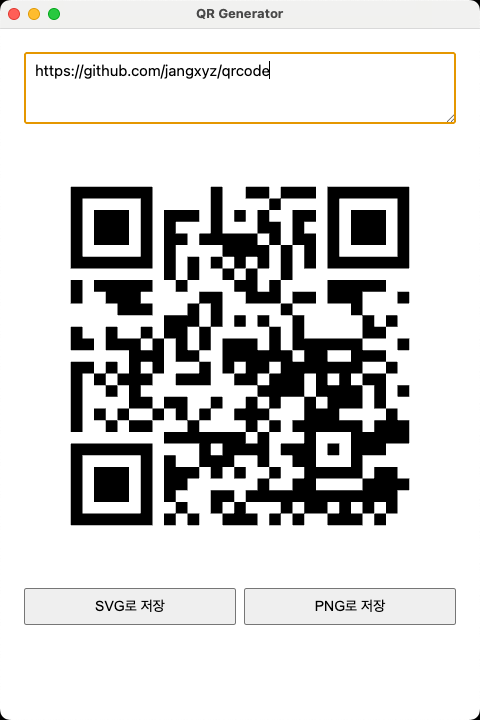
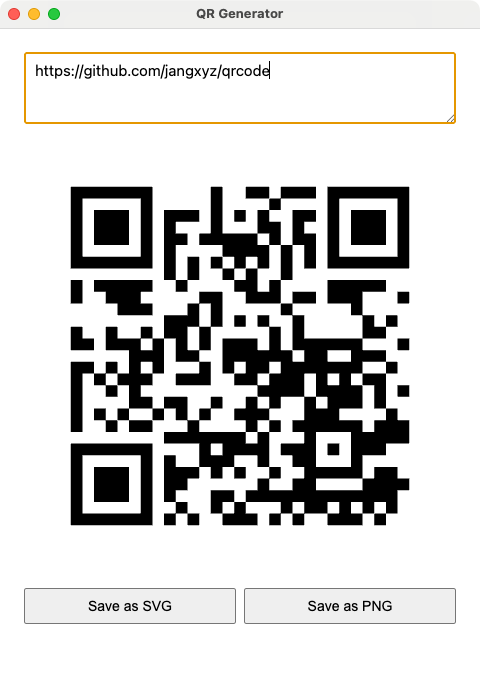
docs: show each README's screenshot in its own language
Replace the Korean screenshot in the English README with an English one, add a Korean screenshot for README.ko.md, and describe how the app picks its language.

Claude-Session: https://claude.ai/code/session_012KkYMyAeUhCHtCL9LEm3MX

diff --git a/README.ko.md b/README.ko.md
@@ -12,7 +12,7 @@
 
 ## electron-ts
 
-<img src="docs/electron-ts.png" alt="QR Generator 데스크탑 앱" width="360">
+<img src="docs/electron-ts.ko.png" alt="QR Generator 데스크탑 앱" width="360">
 
 Node 22.18 이상이 필요하다. CLI가 TypeScript 파일을 빌드 없이 Node로 바로 실행하기 때문이다.
 
@@ -28,6 +28,8 @@ npm run dev
 ```
 
 입력창에 텍스트를 넣으면 QR 코드가 바로 미리보기로 그려지고, "SVG로 저장"과 "PNG로 저장" 버튼으로 파일을 저장한다. 내용이 QR 코드에 담을 수 있는 길이를 넘으면 안내 문구가 뜬다.
+
+앱 문구는 영어와 한국어를 지원하고, 시스템의 첫 번째 선호 언어를 따른다. 언어를 직접 고르려면 `open -a "QR Generator" --args --lang=ko`처럼 `--lang`을 주고 띄운다. 앱이 이미 떠 있으면 먼저 종료해야 한다.
 
 ### qr-gen CLI
 

diff --git a/README.md b/README.md
@@ -27,7 +27,9 @@ npm install
 npm run dev
 ```
 
-Type text into the input box and the QR code preview updates as you type. Save it with the "SVG로 저장" (Save as SVG) or "PNG로 저장" (Save as PNG) button. If the text is too long to fit in a QR code, a message says so.
+Type text into the input box and the QR code preview updates as you type. Save it with the "Save as SVG" or "Save as PNG" button. If the text is too long to fit in a QR code, a message says so.
+
+The app is in English and Korean and follows your first preferred system language. To pick one explicitly, launch it with `--lang`, e.g. `open -a "QR Generator" --args --lang=ko` (quit the app first if it is already running).
 
 ### qr-gen CLI
 
